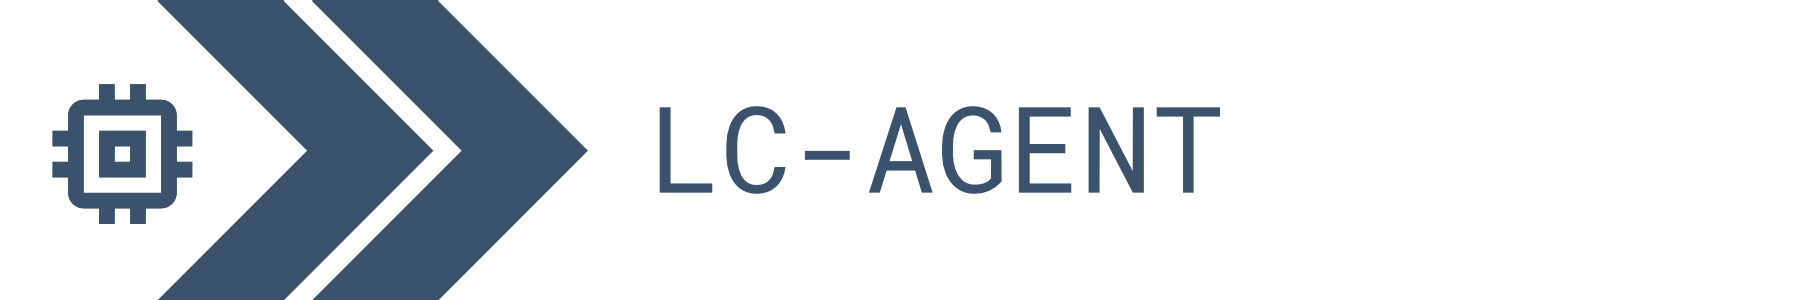
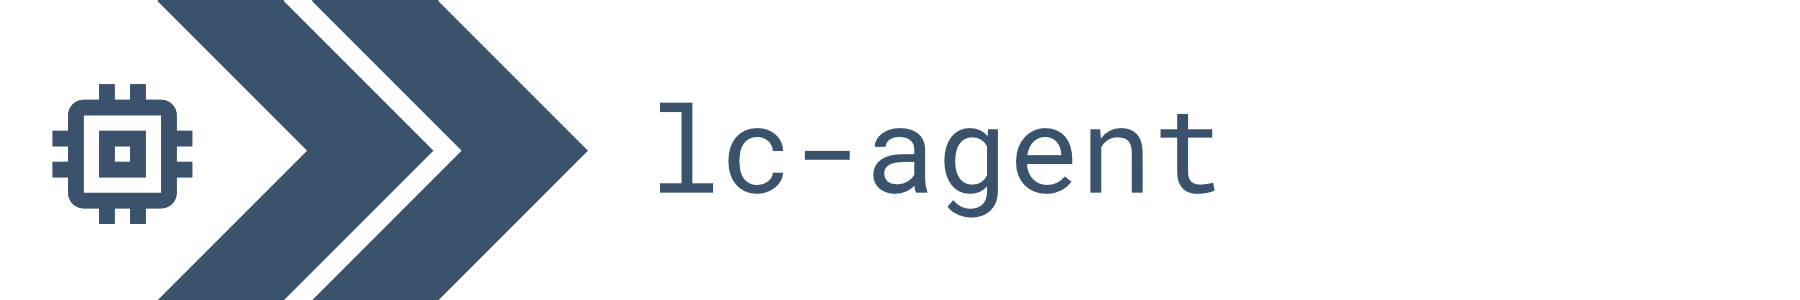
Trudging along... want to look at something on staging.

Changed region(s): [[0.4667, 0.36, 0.6844, 0.72], [0.3422, 0.33, 0.4356, 0.63]]

diff --git a/docs/index.md b/docs/index.md
@@ -1,6 +1,6 @@
 <img src="https://storage.googleapis.com/limacharlie-io/brand/logo/logo_w_text-horizontal.png"
      alt="LimaCharlie.io Logo"
-     style="" />
+     style="width: 50%" />
 ## Quick Start
 To skip all of the details and get set up with endpoint detection and response capability you can follow our [quick start instructions](lcc_quick_start.md).
 
@@ -14,46 +14,46 @@ A high-level overview of LimaCharlie's core concepts can be found here: [Core Co
      alt="LimaCharlie.io Logo"
      style="width: 50%" />
 
-LimaCharlie employs a fine-grained permission scheme across the API and user accounts.
+LimaCharlie employs a fine-grained permission scheme across the API and user accounts. A detailed overview can be [found here](./lc-access.md).
 
-[Details](./lc-access.md)
+* [Analyst Permissions](./lc-access.md#analyst-permissions)
+* [Organization Groups](./lc-access.md#organization-groups)
+* [Programmatic Access](./lc-access.md#programatic-access)
 
-
-## <span style="color:rgba(00, 00, 00, 0)">LC-AGENT</span> 
+## <span style="color:rgba(00, 00, 00, 0)">lc-agent</span> 
 # <span style="color:rgba(00, 00, 00, 0)"></span>
 
 <img src="https://storage.googleapis.com/limacharlie-io/brand/logo/lc-agent.png"
      alt="LimaCharlie.io Logo"
      style="width: 50%" />
 
-The LimaCharlie agent - or sensor - is fully interactive and can monitor over [70 different event types](./events.md). The agent is written in C and then compiled for each different platform and architecture it runs on which means is that it has true feature parity across all operating systems. 
+The LimaCharlie agent - or sensor - is fully interactive and can monitor over [70 different event types](./events.md). The agent is written in C and then compiled for each different platform and architecture it runs on which means is that it has true feature parity across all operating systems.  A detailed overview can be [found here](./lc-access.md).
 
-[Details](./lc-agent.md)
+* [Architecture & OS Support](./lc-agent.md#programatic-access)
+* [Programmatic Access](./lc-access.md#programatic-access)
+* [Programmatic Access](./lc-access.md#programatic-access)
+* [Programmatic Access](./lc-access.md#programatic-access)
 
 
-## <span style="color:rgba(00, 00, 00, 0)">LC-CODE</span> 
+## <span style="color:rgba(00, 00, 00, 0)">lc-code</span> 
 # <span style="color:rgba(00, 00, 00, 0)"></span>
 
 <img src="https://storage.googleapis.com/limacharlie-io/brand/logo/lc-code.png"
      alt="LimaCharlie.io Logo"
      style="width: 50%" />
 
-LimaCharlie provides standalone tools for security proffesionals to get started hunting out of the box but at its heart it is a toolbox for builders. This section of the documentation is a place where developers can find the resources they need to build and monetize their own products.
+LimaCharlie provides standalone tools for security proffesionals to get started hunting out of the box but at its heart it is a toolbox for builders. This section of the documentation is a place where developers can find the resources they need to build and monetize their own products.  A detailed overview can be [found here](./lc-access.md).
 
-[Details](./lc-code.md)
-
-## <span style="color:rgba(00, 00, 00, 0)">LC-EDU</span> 
+## <span style="color:rgba(00, 00, 00, 0)">lc-edu</span> 
 # <span style="color:rgba(00, 00, 00, 0)"></span>
 
 <img src="https://storage.googleapis.com/limacharlie-io/brand/logo/lc-edu.png"
      alt="LimaCharlie.io Logo"
      style="width: 50%" />
 
-Education and open data is at the heart of LimaCharlie. To ensure that users get up to speed quickly - and make the most of the platform - LimaCharlie provides a host of educational resources.
+Education and open data is at the heart of LimaCharlie. To ensure that users get up to speed quickly - and make the most of the platform - LimaCharlie provides a host of educational resources. A detailed overview can be [found here](./lc-access.md).
 
-[Details](./lc-edu.md)
-
-## <span style="color:rgba(00, 00, 00, 0)">LC-HUNT</span> 
+## <span style="color:rgba(00, 00, 00, 0)">lc-hunt</span> 
 # <span style="color:rgba(00, 00, 00, 0)"></span>
 
 <img src="https://storage.googleapis.com/limacharlie-io/brand/logo/lc-hunt.png"
@@ -61,47 +61,31 @@ Education and open data is at the heart of LimaCharlie. To ensure that users get
      style="width: 50%" />
 
 
-LimaCharlie is information security tools and infrastructure. Infrastructure to support any scale and tools to help analysts get started hunting as they grow into the platform.
+LimaCharlie is information security tools and infrastructure. Infrastructure to support any scale and tools to help analysts get started hunting as they grow into the platform. A detailed overview can be [found here](./lc-access.md).
 
-[Details](./lc-hunt.md)
-
-## <span style="color:rgba(00, 00, 00, 0)">LC-MARKETPLACE</span> 
+## <span style="color:rgba(00, 00, 00, 0)">lc-marketplace</span> 
 # <span style="color:rgba(00, 00, 00, 0)"></span>
 
 <img src="https://storage.googleapis.com/limacharlie-io/brand/logo/lc-marketplace.png"
      alt="LimaCharlie.io Logo"
      style="width: 50%" />
 
-LimaCharlie offers additional free and paid integrated services through it's Add-Ons Marketplace.
+LimaCharlie offers additional free and paid integrated services through it's Add-Ons Marketplace. A detailed overview can be [found here](./lc-access.md).
 
-[Details](./lc-marketplace.md)
-
-## <span style="color:rgba(00, 00, 00, 0)">LC-OUTPUT</span>
+## <span style="color:rgba(00, 00, 00, 0)">lc-output</span>
 # <span style="color:rgba(00, 00, 00, 0)"></span>
 
 <img src="https://storage.googleapis.com/limacharlie-io/brand/logo/lc-output.png"
      alt="LimaCharlie.io Logo"
      style="width: 50%" />
 
-The data produced by the LimaCharlie endpoint is under complete control of the user. LimaCharlie provides extensive storage and search options as part of its core offering but makes the full telemetry stream availble to users.
+The data produced by the LimaCharlie endpoint is under complete control of the user. LimaCharlie provides extensive storage and search options as part of its core offering but makes the full telemetry stream availble to users.  A detailed overview can be [found here](./lc-access.md).
 
-[Details](./lc-output.md)
-
-## <span style="color:rgba(00, 00, 00, 0)">LC-Storage</span> 
+## <span style="color:rgba(00, 00, 00, 0)">lc-storage</span> 
 # <span style="color:rgba(00, 00, 00, 0)"></span>
 
 <img src="https://storage.googleapis.com/limacharlie-io/brand/logo/lc-storage.png"
      alt="LimaCharlie.io Logo"
      style="width: 50%" />
 
-By default LimaCharlie stores a full year of searchable endpoint telemetry as well as log files, binary assets and more.
-
-All files and telemetry ingested are indiexed across common indicators of compromise and are easily processed by any of the subsystems or products in the LimaCharlie offering.
-
-[Details](./lc-agent.md)
-
-
-
-
-
-
+By default LimaCharlie stores a full year of searchable endpoint telemetry as well as log files, binary assets and more. A detailed overview can be [found here](./lc-access.md).

diff --git a/docs/lc-agent.md b/docs/lc-agent.md
@@ -1,6 +1,6 @@
 ![image 'lc-agent'](./images/lc-agent.png)
 
-## <span style="color:#3e516b">Overview</span>
+## <span style="color:#3e516b">Architecture & OS Support</span>
 
 The LimaCharlie agent - or sensor - is fully interactive and can monitor over [70 different event types](./events.md). The agent is written in C and then compiled for each different platform and architecture it runs on which means is that it has true feature parity across all operating systems. The only exceptions are platform specific functions, such as monitoring Windows registry operations, etc. 
 
@@ -58,46 +58,7 @@ The Live View user interface of the web application uses a tabbed format. Throug
 * State
 * Process Hash
 
-
-## <span style="color:#3e516b">Installers</span>
-
-### <span style="color:#3e516b">Downloads</span>
-
-**Windows**
-
-[Windows 32 bit](https://app.limacharlie.io/get/windows/32)
-
-[Windows 64 bit](https://app.limacharlie.io/get/windows/64)
-
-[Windows msi32](https://app.limacharlie.io/get/windows/msi32)
-
-[Windows msi64](https://app.limacharlie.io/get/windows/msi64)
-
-**MacOS**
-
-[MacOS 64 bit](https://app.limacharlie.io/get/mac/64)
-
-[MacOS pkg](https://app.limacharlie.io/get/mac/pkg)
-
-**Linux**
-
-[Linux 32 bit](https://app.limacharlie.io/get/linux/32)
-
-[Linux 64 bit](https://app.limacharlie.io/get/linux/64)
-
-[Linux alpine64](https://app.limacharlie.io/get/linux/alpine64)
-
-[Linux arm32](https://app.limacharlie.io/get/linux/arm32)
-
-[Linux arm64](https://app.limacharlie.io/get/linux/arm64)
-
-[Docker](https://hub.docker.com/r/refractionpoint/limacharlie_sensor)
-
-**Chrome/ChromeOS** 
-
-[Chrome](https://app.limacharlie.io/get/chrome/)
-
-### <span style="color:#3e516b">Installing</span>
+## <span style="color:#3e516b">Installing the Agent</span>
 
 Installing the sensor requires administrator (or root) execution:
 
@@ -137,3 +98,39 @@ Installing the sensor requires administrator (or root) execution:
 Upgrading sensors is done transparently when the user clicks a button in the web application or through the API/SDK/CLI. Rolling back sensor versions can also be done with the click of a button in the web application or through the API/SDK/CLI. You do not need to re-download installers (in fact the installer stays the same). Once an upgrade has been triggered the new version should be in effect across the organization within about 20 minutes.
 
 ![image 'Sensor Upgrade'](./images/sc-upgrade-sensor.png)
+
+## <span style="color:#3e516b">Installer Downloads</span>
+
+**Windows**
+
+[Windows 32 bit](https://app.limacharlie.io/get/windows/32)
+
+[Windows 64 bit](https://app.limacharlie.io/get/windows/64)
+
+[Windows msi32](https://app.limacharlie.io/get/windows/msi32)
+
+[Windows msi64](https://app.limacharlie.io/get/windows/msi64)
+
+**MacOS**
+
+[MacOS 64 bit](https://app.limacharlie.io/get/mac/64)
+
+[MacOS pkg](https://app.limacharlie.io/get/mac/pkg)
+
+**Linux**
+
+[Linux 32 bit](https://app.limacharlie.io/get/linux/32)
+
+[Linux 64 bit](https://app.limacharlie.io/get/linux/64)
+
+[Linux alpine64](https://app.limacharlie.io/get/linux/alpine64)
+
+[Linux arm32](https://app.limacharlie.io/get/linux/arm32)
+
+[Linux arm64](https://app.limacharlie.io/get/linux/arm64)
+
+[Docker](https://hub.docker.com/r/refractionpoint/limacharlie_sensor)
+
+**Chrome/ChromeOS** 
+
+[Chrome](https://app.limacharlie.io/get/chrome/)

diff --git a/docs/lc-access.md b/docs/lc-access.md
@@ -27,7 +27,7 @@ This feature set can be accessed through the web application at the top of the m
 
 Once you name the group you will see it show up in the list of groups. From here you can click on it, select the organizations, set permissions and add users. Users can be a mix of owners and members of various groups that have access to a variety of organizations with different permission levels - the possibilities are endless.
 
-### <span style="color:#816122">Organization Groups</span>
+## <span style="color:#816122">Organization Groups</span>
 Organization Groups allow you to grant permissions to a set of users on a group of organizations.
  
 Permissions granted through the group are applied on top of permissions granted at the organization level. Ther permissions are additive, and a group cannot be used to subsctract permissions granted at the organization level.
